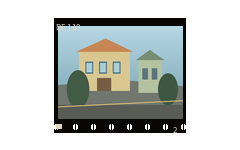
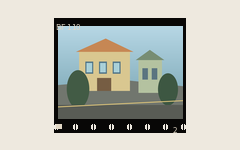
design: unify frame preview backgrounds

diff --git a/tools/generate-scan-emulsion-edge-assets.py b/tools/generate-scan-emulsion-edge-assets.py
@@ -26,6 +26,8 @@ REVIEW = ROOT / 'docs' / 'production-frame-review'
 SEGMENTS = ('top-left', 'top', 'top-right', 'right', 'bottom-right', 'bottom', 'bottom-left', 'left')
 WARM = ((216, 190, 120, 184), (228, 208, 154, 158), (185, 149, 76, 184), (238, 227, 197, 132))
 BLACK = (5, 5, 5, 145)
+PRODUCTION_BG = '#FFFFFF'
+PREVIEW_BG = '#EEE9DF'
 
 
 def review_font(size: int) -> ImageFont.FreeTypeFont | ImageFont.ImageFont:
@@ -187,9 +189,9 @@ console.log(JSON.stringify({ result, calls }));
     return json.loads(completed.stdout)
 
 
-def composite_scan(size: tuple[int, int], border: int = 18, variant: int = 1) -> Image.Image:
+def composite_scan(size: tuple[int, int], border: int = 18, variant: int = 1, background: str = PRODUCTION_BG) -> Image.Image:
     width, height = size
-    canvas = Image.new('RGB', size, '#FFFFFF').convert('RGBA')
+    canvas = Image.new('RGB', size, background).convert('RGBA')
     draw = ImageDraw.Draw(canvas)
     pw, ph = int(width * 0.62), int(height * 0.58)
     px, py = (width - pw) // 2, (height - ph) // 2
@@ -210,7 +212,7 @@ def composite_scan(size: tuple[int, int], border: int = 18, variant: int = 1) ->
 
 def composite_other_basic(size: tuple[int, int], kind: str) -> Image.Image:
     width, height = size
-    canvas = Image.new('RGB', size, '#FFFFFF')
+    canvas = Image.new('RGB', size, PRODUCTION_BG)
     draw = ImageDraw.Draw(canvas)
     pw, ph = int(width * 0.62), int(height * 0.58)
     px, py = (width - pw) // 2, (height - ph) // 2
@@ -245,7 +247,7 @@ def composite_other_basic(size: tuple[int, int], kind: str) -> Image.Image:
 
 def make_preview() -> None:
     PREVIEW.parent.mkdir(parents=True, exist_ok=True)
-    preview = composite_scan((240, 150), border=6, variant=2)
+    preview = composite_scan((240, 150), border=6, variant=2, background=PREVIEW_BG)
     preview.save(PREVIEW, optimize=True)
 
 

diff --git a/tools/generate-film-frame-collection.py b/tools/generate-film-frame-collection.py
@@ -39,6 +39,7 @@ STYLE_LABELS = {
     'film-contact-sheet': '接触印样',
 }
 OUTER = '#FFFFFF'
+SELECTOR_BACKGROUND = '#EEE9DF'
 
 
 def font(size):
@@ -131,9 +132,9 @@ def draw_text(draw, item):
               fill=item['color'], font=font(item['fontSize']))
 
 
-def render(style_id, size, margin, title=None, source=None):
+def render(style_id, size, margin, title=None, source=None, background=OUTER):
     source = source or photo_source()
-    canvas = Image.new('RGB', size, OUTER)
+    canvas = Image.new('RGB', size, background)
     layout = production_layout(style_id, size[0], size[1], source.width / source.height, margin)
     style = layout['style']
     frame = layout['frameRect']
@@ -142,7 +143,7 @@ def render(style_id, size, margin, title=None, source=None):
     paste_aperture(canvas, source, layout['apertureRect'])
     decorations = layout['decorationRects']
     for item in decorations['perforations']:
-        draw_perforation(draw, item, OUTER)
+        draw_perforation(draw, item, background)
     for item in decorations['labels']:
         draw_text(draw, item)
     for item in decorations['frameNumbers']:
@@ -179,7 +180,7 @@ def generate_previews():
     PREVIEW_DIR.mkdir(parents=True, exist_ok=True)
     source = photo_source()
     for style_id in RUNTIME_PREVIEW_IDS:
-        image = render_legacy_medium_preview((240, 150), source) if style_id == 'medium-format-120' else render(style_id, (240, 150), 18, source=source)[0]
+        image = render_legacy_medium_preview((240, 150), source) if style_id == 'medium-format-120' else render(style_id, (240, 150), 18, source=source, background=SELECTOR_BACKGROUND)[0]
         output = PREVIEW_DIR / f'{style_id}.png'
         image.save(output, optimize=True)
         if output.stat().st_size > 15 * 1024:

diff --git a/tools/verify-frame-mask-assets.py b/tools/verify-frame-mask-assets.py
@@ -1,11 +1,13 @@
 #!/usr/bin/env python3
-"""Validate generated frame mask count, alpha channels, dimensions and size."""
+"""Validate frame masks and the shared selector-preview presentation."""
 
 from pathlib import Path
 from PIL import Image
 
 
-ROOT = Path(__file__).resolve().parents[1] / "miniprogram" / "assets" / "frame-masks"
+ASSET_ROOT = Path(__file__).resolve().parents[1] / "miniprogram" / "assets"
+ROOT = ASSET_ROOT / "frame-masks"
+PREVIEW_ROOT = ASSET_ROOT / "frame-previews"
 TIERED = {"full-frame-scan": 3, "emulsion-damage": 3}
 NON_TIERED = {"scan-emulsion-edge": 3}
 TIERS = ("light", "medium", "strong")
@@ -38,4 +40,17 @@ for style, variants in NON_TIERED.items():
 
 assert {path.name for path in ROOT.iterdir() if path.is_dir()} == set(TIERED) | set(NON_TIERED), "stale or missing production mask style"
 
-print("frame mask asset tests passed")
+preview_files = sorted(PREVIEW_ROOT.glob("*.png"))
+assert preview_files, "frame selector previews are missing"
+for file in preview_files:
+    image = Image.open(file).convert("RGB")
+    assert image.size == (240, 150), (file, image.size)
+    corners = (
+        image.getpixel((0, 0)),
+        image.getpixel((image.width - 1, 0)),
+        image.getpixel((0, image.height - 1)),
+        image.getpixel((image.width - 1, image.height - 1)),
+    )
+    assert all(pixel == (238, 233, 223) for pixel in corners), (file, corners)
+
+print("frame mask and selector preview asset tests passed")
